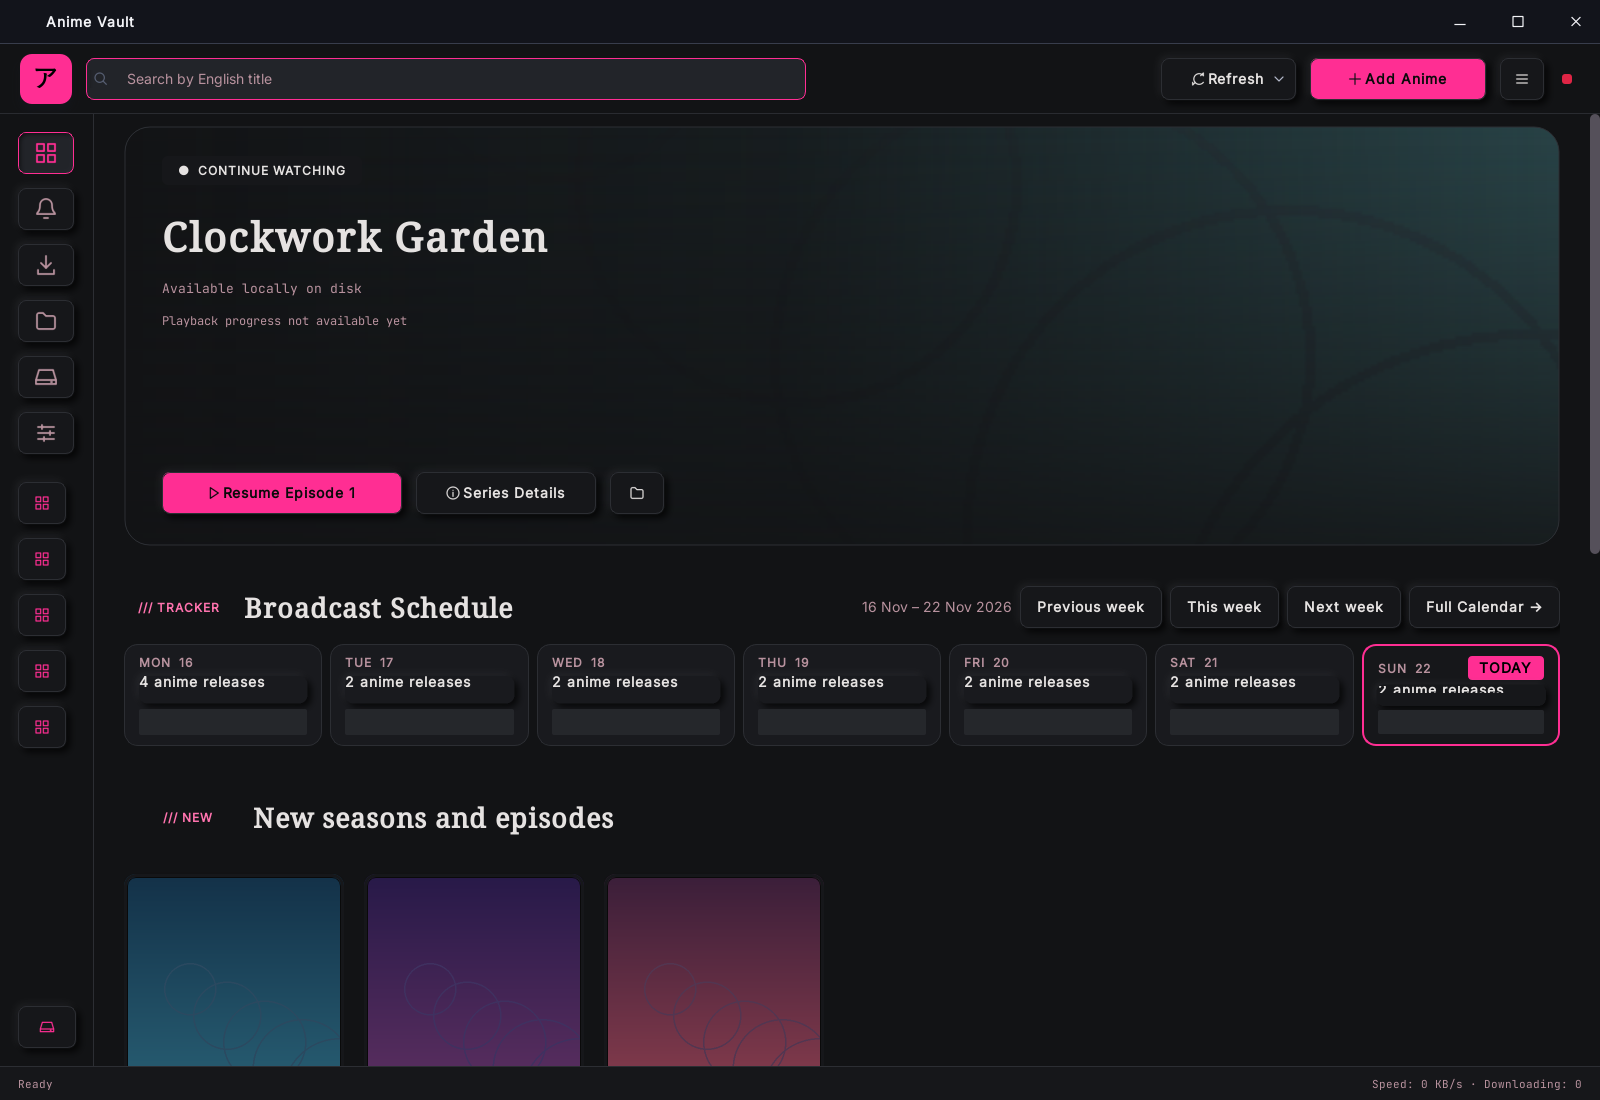
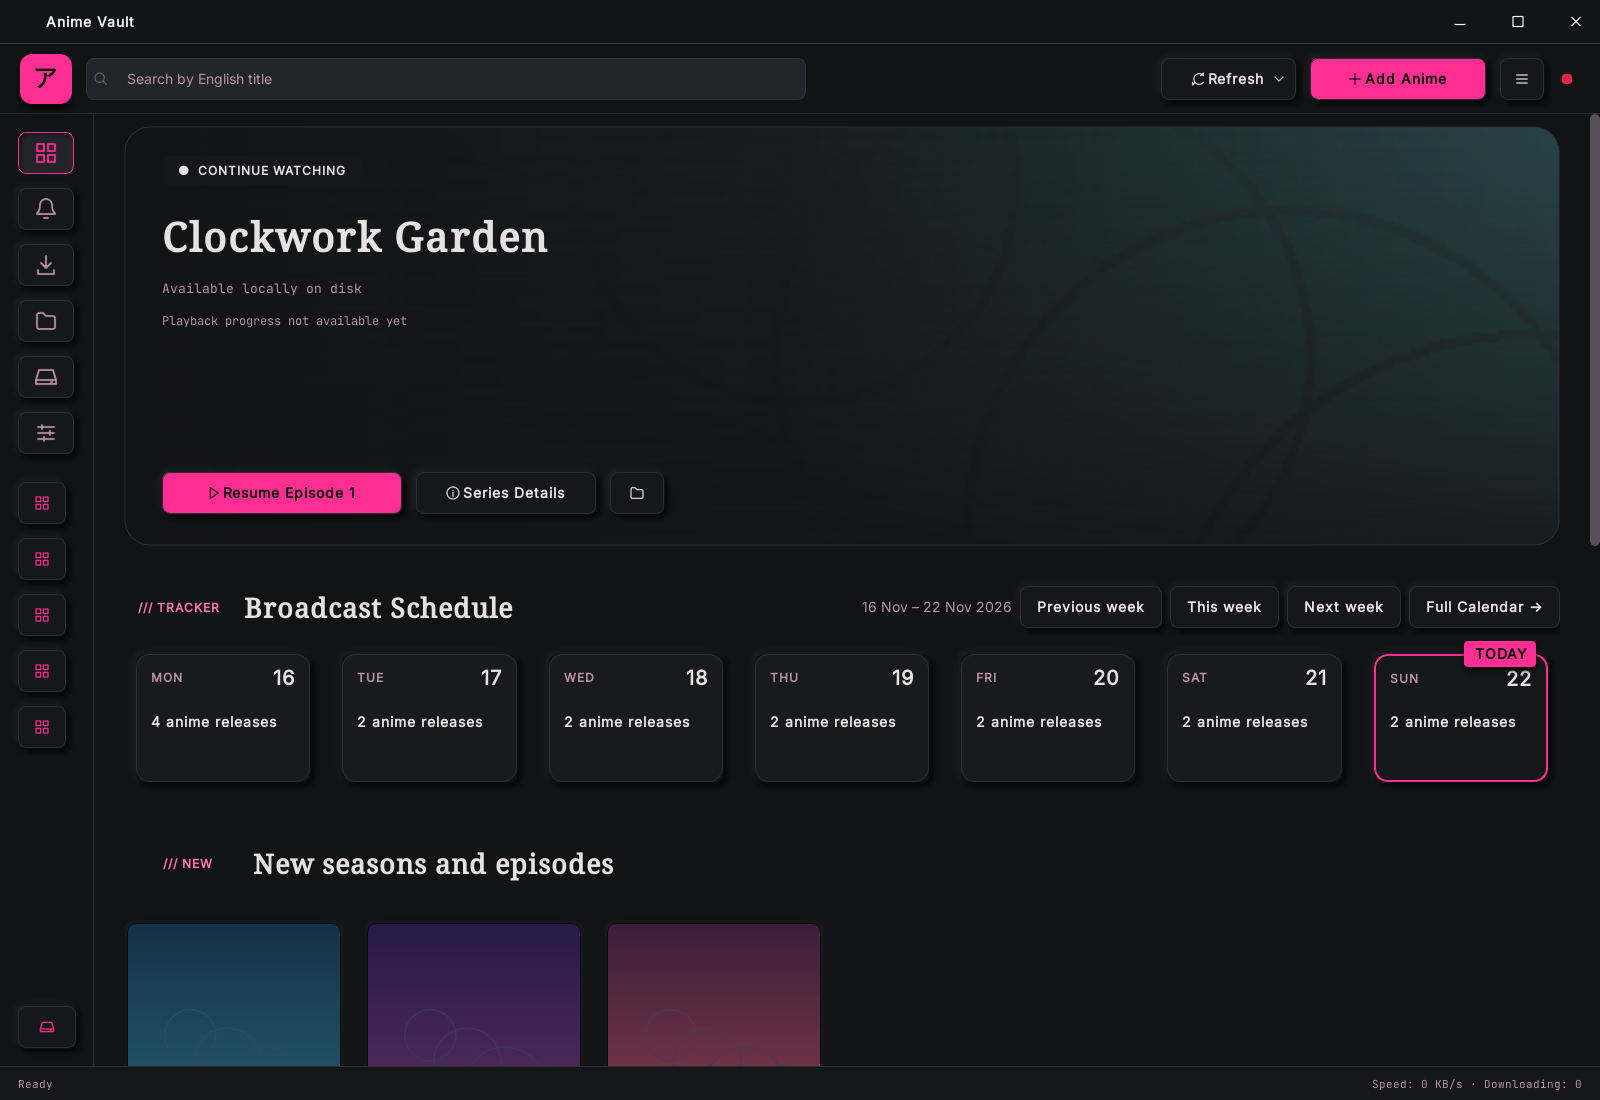
Showcase Manga Brutalism Light and Dark in the README

diff --git a/scripts/capture_readme.py b/scripts/capture_readme.py
@@ -49,7 +49,7 @@ def main():
         config.OFFLINE_MODE=True
         db.init_db()
         db.set_state('downloads.settings',json.dumps({'destination':'D:/Anime Vault/Downloads','enabled':False}))
-        for key,value in {'scan_schedule':'manual','preference:metadata_auto':'0','theme':'dark','preference:reduce_motion':'1'}.items():db.set_state(key,value)
+        for key,value in {'scan_schedule':'manual','preference:metadata_auto':'0','theme':'manga_dark','preference:reduce_motion':'1'}.items():db.set_state(key,value)
         titles=['Starlight Academy','Moonlit Voyage','The Last Sky Courier','Beyond the Azure Gate','Echoes of Tomorrow','Crimson Orbit','Silverwind Chronicles','Clockwork Garden']
         calendar=[];identifiers=[];catalog=[]
         demo_library=root/'Demo Library';demo_library.mkdir()
@@ -91,7 +91,7 @@ def main():
         from app.ui.main_window import MainWindow
         from app.ui.pages.downloads_page import DownloadsPage
         from app.ui.io_task import running
-        apply_theme(app,'dark')
+        apply_theme(app,'manga_dark')
         stack.enter_context(patch.object(DownloadsPage,'refresh'))
         window=MainWindow.__new__(MainWindow);QMainWindow.__init__(window)
         window._updater_thread=None;window._unread_updates=3;window._dirty_pages=set();window._shutdown_pending=False;window._navigation_pages=[]
@@ -123,19 +123,22 @@ def main():
                    'video_count':8,'status_badge':'Season 01','status_reason':'8 files ready for review'}
         organizer._on_scan_finished(dict(unorganized=[candidate],organized=[],all=[candidate]),cached=True)
         capture('organizer',window.organizer_page)
+        theme_choice=window.settings_page.theme_combo
+        theme_choice.setCurrentIndex(theme_choice.findData('manga_light'))
+        apply_theme(app,'manga_light')
         capture('settings',window.settings_page)
         window.settings_page.tabs.setCurrentIndex(5)
         capture('backup-and-restore',window.settings_page)
         window.settings_page.tabs.setCurrentIndex(0)
+        capture('storage',window.storage_page)
+        apply_theme(app,'manga_dark')
         window.downloads_page.loaded([{'id':'demo-completed','fid':identifiers[0],'title':'Starlight Academy · Episode 8','release_title':'Starlight Academy - S01E08','episode_keys':['EPISODE:S1:8'],'destination':str(root/'Downloads'),'engine':'builtin','indexed':True,'desired':'running','status':'Completed','progress':1,'downloaded':450*1024**2,'total':450*1024**2,'download_rate':0}])
         capture('downloads',window.downloads_page)
-        capture('storage',window.storage_page)
 
         from app.ui.pages.episode_page import EpisodePage
         episodes=EpisodePage(identifiers[0],window);window.stacked_widget.addWidget(episodes)
         capture('episodes',episodes)
 
-        apply_theme(app,'manga_dark')
         capture('library-manga-dark',window.library_page)
         organizer.organizer_tabs.setCurrentIndex(2)
         duplicates=organizer._duplicate_page

diff --git a/README.md b/README.md
@@ -44,7 +44,7 @@ py -3.13 -m venv .venv
 
 ## Feature walkthrough
 
-The screenshots show the running desktop app with fictional titles, original abstract artwork, example paths, and illustrative transfer statistics. Click an image to view it at full size.
+The screenshots show the running desktop app in **Manga Brutalism Light and Dark**, with fictional titles, original abstract artwork, example paths, and illustrative transfer statistics. Click an image to view it at full size.
 
 ### Library and playback
 
@@ -57,11 +57,9 @@ The screenshots show the running desktop app with fictional titles, original abs
 | [![Vault Archive with filters, sorting, and a poster grid](docs/screenshots/library-grid.png)](docs/screenshots/library-grid.png) | [![Series Details with local episode coverage, watch status, rating, and notes](docs/screenshots/series-details.png)](docs/screenshots/series-details.png) |
 
 <details>
-<summary>See the episode picker and Sakura Library</summary>
+<summary>See the episode picker</summary>
 
-| Choose an episode | Sakura Dark home screen |
-| --- | --- |
-| [![Episode picker with local episodes and a playback footer](docs/screenshots/episodes.png)](docs/screenshots/episodes.png) | [![Sakura Dark Library with centered navigation, weekly schedule, and recent updates](docs/screenshots/library.png)](docs/screenshots/library.png) |
+[![Episode picker with local episodes and a playback footer in Manga Brutalism Dark](docs/screenshots/episodes.png)](docs/screenshots/episodes.png)
 
 </details>
 
